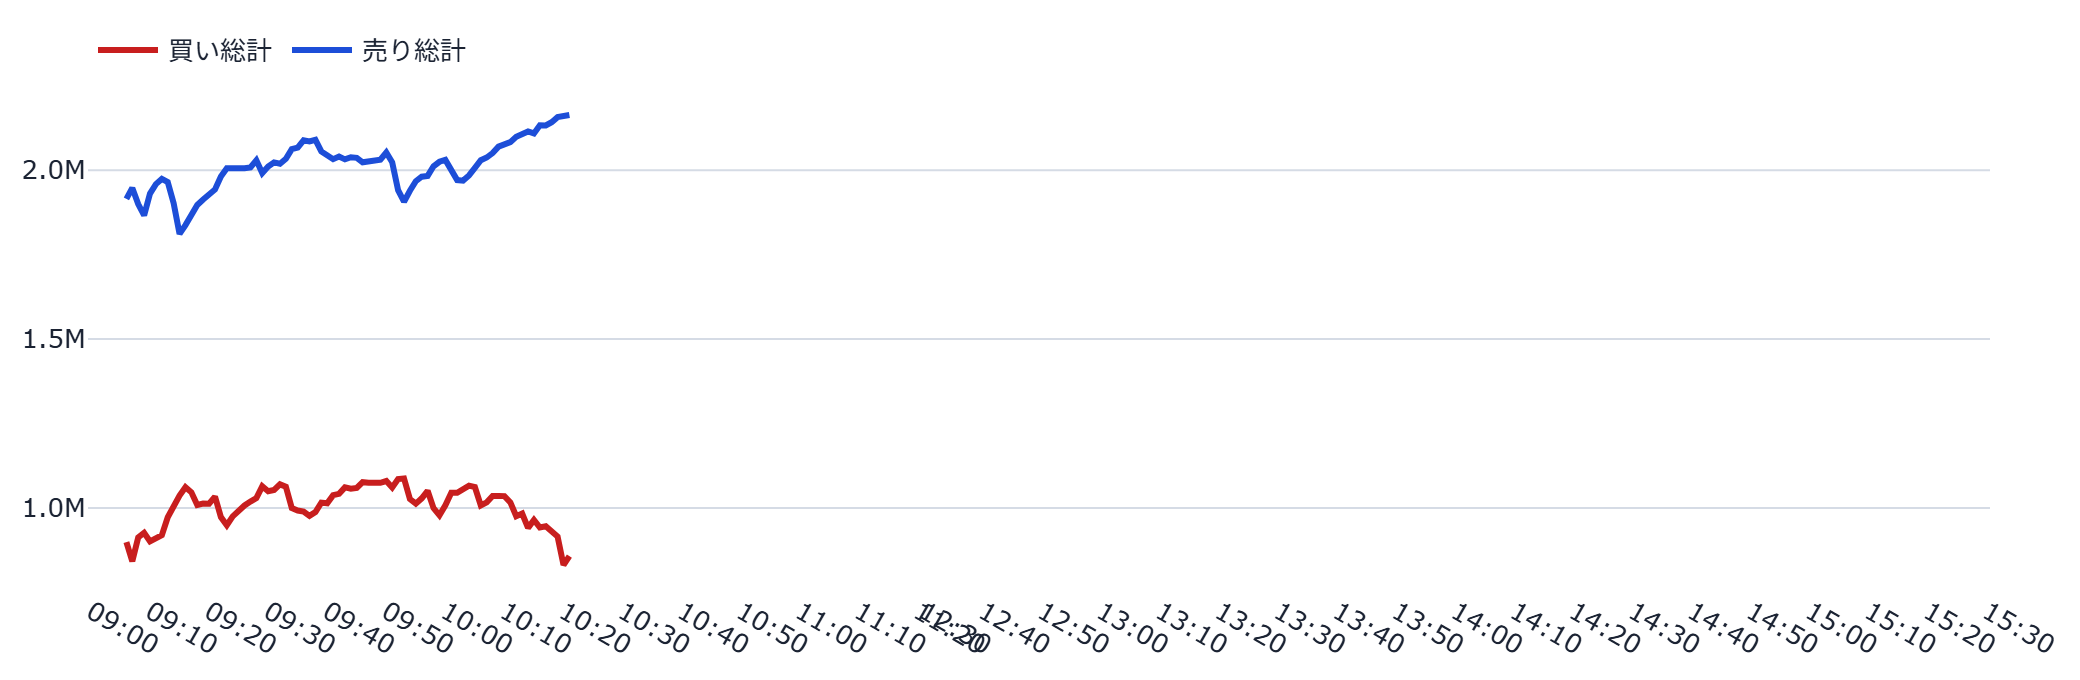
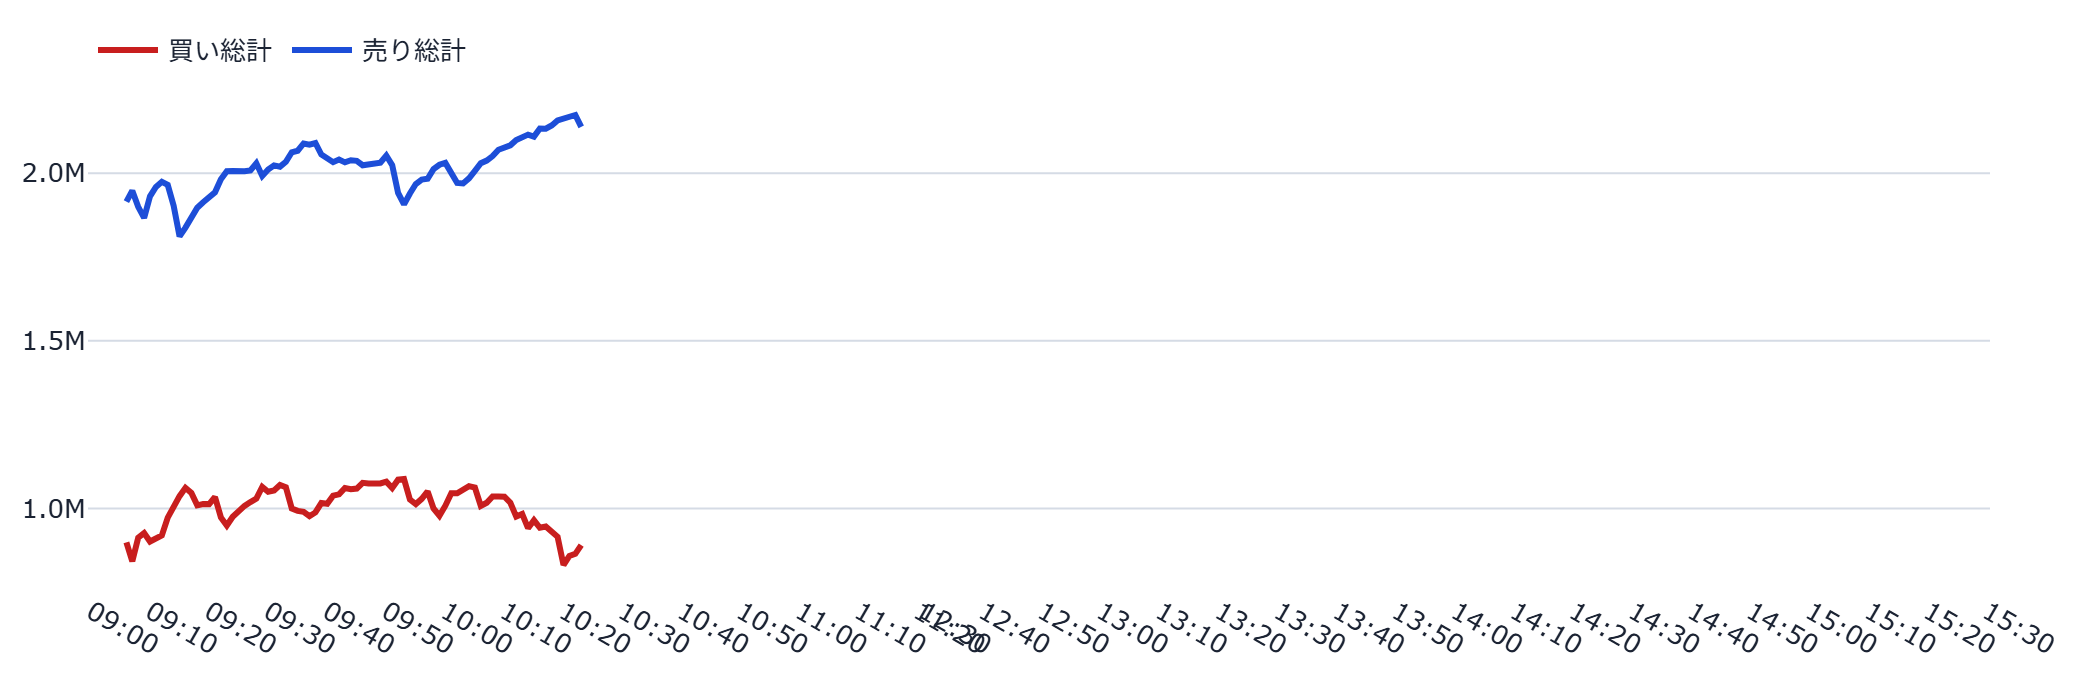
auto: refresh static dashboard (2026-09-24 10:26:27 JST)

Changed region(s): [[0.0, 0.1544, 0.9688, 0.3397], [0.0, 0.4941, 0.9688, 0.525], [0.1562, 0.7103, 0.25, 0.7412]]

diff --git a/docs/index.html b/docs/index.html
@@ -146,20 +146,20 @@
       <div class="panel header">
         <span class="symbol">285A</span>
         <span class="company">キオクシアホールディングス</span>
-        <span class="price">55,780円</span>
-        <span class="chg" style="color:#C81E1E">+2.22%</span>
+        <span class="price">55,920円</span>
+        <span class="chg" style="color:#C81E1E">+2.47%</span>
       </div>
       <p class="caption">更新時刻: 2026-09-24T09:49:20（データは1分間隔で自動生成され、このページも
       60秒毎に自動再読み込みされます）</p>
-      <p class='caption'>⚠ データの更新が約34分前から止まっている可能性があります(通常は1分毎に自動生成)。</p>
-      <p id='visit-count-badge' class='caption'>👀 累計閲覧数: 6,006</p>
+      <p class='caption'>⚠ データの更新が約37分前から止まっている可能性があります(通常は1分毎に自動生成)。</p>
+      <p id='visit-count-badge' class='caption' style='display:none'></p>
       <p id='like-button-wrap' class='caption'><button id='like-button' type='button' style='cursor:pointer;border:1px solid var(--border);border-radius:6px;padding:1px 10px;margin-right:6px;background:var(--panel);color:var(--text);font-size:1em;vertical-align:middle'>👍</button><span id='like-count-label'>このダッシュボードが役に立ったら押してください（累計 4 いいね）</span></p>
 
       <!-- ★2026-09-08追加(ユーザー指示「AI考察はトップに移動」): モニタ
            (ai_sector_monitor)のtemplates/index.htmlと同じく、AI考察はタブ非依存で
            常時最上部に表示する。 -->
       <h2>🤖 AI考察</h2>
-      <div class='metric-row'><div class='metric-card'><div class='metric-label'>株価</div><div class='metric-value'>55,780円</div><div class='metric-delta'>+1210円</div></div><div class='metric-card'><div class='metric-label'>強気比率</div><div class='metric-value'>43.2%</div><div class='metric-delta'>+0.0pt</div></div><div class='metric-card'><div class='metric-label'>弱気比率</div><div class='metric-value'>47.9%</div><div class='metric-delta'>+0.0pt</div></div></div><p class='caption'>前回集計(2026-09-24T09:11:32)との比較</p>
+      <div class='metric-row'><div class='metric-card'><div class='metric-label'>株価</div><div class='metric-value'>55,920円</div><div class='metric-delta'>+1350円</div></div><div class='metric-card'><div class='metric-label'>強気比率</div><div class='metric-value'>43.2%</div><div class='metric-delta'>+0.0pt</div></div><div class='metric-card'><div class='metric-label'>弱気比率</div><div class='metric-value'>47.9%</div><div class='metric-delta'>+0.0pt</div></div></div><p class='caption'>前回集計(2026-09-24T09:11:32)との比較</p>
       <div class='ai-box'>キオクシアホールディングス（285A）の掲示板における、前場時点での集計センチメントデータに基づく分析を報告します。<br>
 <br>
 現在の株価は前日比で4.21%上昇しており、本日の値動きは「トレンド型」として分類されています。この値動きの大きさは執行コストの約152.5倍に達しており、コストを大きく上回る規模での推移を見せています。一方で、ボラティリティ・レジーム帯は現在「calibrating（較正中）」となっており、現在の価格変動の激しさが統計的にどの程度の水準にあるかについては、まだ確定的な評価に至っていない段階にあります。<br>
@@ -268,11 +268,11 @@
         <div class="grid2">
           <div class="panel">
             <h3>支持線・抵抗線の目安（SD単位）</h3>
-            <table style='width:100%;border-collapse:collapse;font-size:.92em'><thead><tr><th style='text-align:left'>値幅の目安</th><th style='text-align:left'>上側の水準</th><th style='text-align:left'>下側の水準</th></tr></thead><tbody><tr><td>0.5SD（±2.62%）</td><td>57,242円</td><td>54,318円</td></tr><tr><td>1.0SD（±5.24%）</td><td>58,704円</td><td>52,856円</td></tr><tr><td>1.5SD（±7.86%）</td><td>60,166円</td><td>51,394円</td></tr></tbody></table><p class='caption'>直近14日間の最高値（2026-09-07・59,530円）からの乖離: -6.30%</p><p class='caption'>SDは直近14日間の日次終値リターンの標準偏差（5.24%/日）から算出した値幅の目安であり、到達を予測するものではありません。</p>
+            <table style='width:100%;border-collapse:collapse;font-size:.92em'><thead><tr><th style='text-align:left'>値幅の目安</th><th style='text-align:left'>上側の水準</th><th style='text-align:left'>下側の水準</th></tr></thead><tbody><tr><td>0.5SD（±2.62%）</td><td>57,386円</td><td>54,454円</td></tr><tr><td>1.0SD（±5.24%）</td><td>58,851円</td><td>52,989円</td></tr><tr><td>1.5SD（±7.86%）</td><td>60,317円</td><td>51,523円</td></tr></tbody></table><p class='caption'>直近14日間の最高値（2026-09-07・59,530円）からの乖離: -6.06%</p><p class='caption'>SDは直近14日間の日次終値リターンの標準偏差（5.24%/日）から算出した値幅の目安であり、到達を予測するものではありません。</p>
           </div>
           <div class="panel">
             <h3>市場コンテキスト</h3>
-            <div class='metric-row'><div class='metric-card'><div class='metric-label'>本日の値動きの型</div><div class='metric-value' style='font-size:1.05rem'>トレンド型</div><div class='metric-delta'>不確実性: 普段並み</div></div><div class='metric-card'><div class='metric-label'>値動き ÷ 執行コスト</div><div class='metric-value'>約80.4倍</div><div class='metric-delta'>費用実測2.76bp</div></div></div><p class='caption'>海外ピアの値動き・本日の値動きの型はいずれも事実の記述であり、翌営業日の値動きを予測するものではありません。値動き÷執行コストは値幅の大きさの目安であり、実際に利益を確保できることを意味しません。</p>
+            <div class='metric-row'><div class='metric-card'><div class='metric-label'>本日の値動きの型</div><div class='metric-value' style='font-size:1.05rem'>トレンド型</div><div class='metric-delta'>不確実性: 普段並み</div></div><div class='metric-card'><div class='metric-label'>値動き ÷ 執行コスト</div><div class='metric-value'>約89.5倍</div><div class='metric-delta'>費用実測2.76bp</div></div></div><p class='caption'>海外ピアの値動き・本日の値動きの型はいずれも事実の記述であり、翌営業日の値動きを予測するものではありません。値動き÷執行コストは値幅の大きさの目安であり、実際に利益を確保できることを意味しません。</p>
           </div>
         </div>
         <div class="panel">
@@ -287,7 +287,7 @@
 
       <hr style="border:none;border-top:1px solid var(--border);margin:2rem 0 1rem">
       <p class="caption">⚠ 本情報は掲示板投稿を統計的に集計したものであり、投資助言ではありません。個別の投稿内容は含まれていません。研究・エンタメ用途です。</p>
-      <footer>生成: generate_static_dashboard.py（2026-09-24T10:23:32） /
+      <footer>生成: generate_static_dashboard.py（2026-09-24T10:26:12） /
       画像バックエンド: plotly+kaleido</footer>
     </div>
     <script>(function(){var url="https://script.google.com/macros/s/AKfycbwgSSGQ2n56ohmIYKlNDA1Xe3D8hd3GJbD0U90L4DGtXdb8pqrPokNMHJWjvN1__7bE/exec";var KEY='bbs_visit_counted';var already=sessionStorage.getItem(KEY);var action=already?'read':'hit';var ctrl=(typeof AbortController!=='undefined')?new AbortController():null;var timer=ctrl?setTimeout(function(){ctrl.abort();},5000):null;fetch(url+'?action='+action,{signal:ctrl?ctrl.signal:undefined}).then(function(r){if(timer)clearTimeout(timer);return r.json();}).then(function(data){if(!already)sessionStorage.setItem(KEY,'1');if(data&&typeof data.count==='number'){var el=document.getElementById('visit-count-badge');if(el){el.textContent='\u{1F440} \u7d2f\u8a08\u95b2\u89a7\u6570: '+data.count.toLocaleString();el.style.display='';}}}).catch(function(e){if(timer)clearTimeout(timer);console.warn('visit counter fetch failed (fail-soft):',e);});})();</script><script>(function(){var url="https://script.google.com/macros/s/AKfycbwgSSGQ2n56ohmIYKlNDA1Xe3D8hd3GJbD0U90L4DGtXdb8pqrPokNMHJWjvN1__7bE/exec";var KEY='bbs_liked';var btn=document.getElementById('like-button');var label=document.getElementById('like-count-label');if(!btn||!label)return;function renderLiked(count){btn.disabled=true;btn.style.cursor='default';btn.style.opacity='0.6';btn.textContent='\u2705';label.textContent="\u3044\u3044\u306d\u3057\u307e\u3057\u305f\uff01"+(typeof count==='number'?"\uff08\u7d2f\u8a08 "+count.toLocaleString()+" \u3044\u3044\u306d\uff09":'');}if(localStorage.getItem(KEY)){renderLiked(null);}btn.addEventListener('click',function(){if(localStorage.getItem(KEY))return;btn.disabled=true;var ctrl=(typeof AbortController!=='undefined')?new AbortController():null;var timer=ctrl?setTimeout(function(){ctrl.abort();},5000):null;fetch(url+'?action=like_hit',{signal:ctrl?ctrl.signal:undefined}).then(function(r){if(timer)clearTimeout(timer);return r.json();}).then(function(data){localStorage.setItem(KEY,'1');renderLiked(data&&typeof data.count==='number'?data.count:null);}).catch(function(e){if(timer)clearTimeout(timer);btn.disabled=false;console.warn('like button fetch failed (fail-soft):',e);});});})();</script><script>(function(){var DEFAULT_TAB='overview';function activate(tabName){var buttons=document.querySelectorAll('.tab-bar .tab-btn');var panels=document.querySelectorAll('[data-tab-panel]');if(!buttons.length||!panels.length)return;var matched=false;panels.forEach(function(p){var on=p.getAttribute('data-tab-panel')===tabName;if(on)matched=true;p.classList.toggle('tab-hidden',!on);});if(!matched){panels.forEach(function(p){p.classList.toggle('tab-hidden',p.getAttribute('data-tab-panel')!==DEFAULT_TAB);});tabName=DEFAULT_TAB;}buttons.forEach(function(b){var on=b.getAttribute('data-tab')===tabName;b.classList.toggle('active',on);b.setAttribute('aria-selected',on?'true':'false');});}document.addEventListener('DOMContentLoaded',function(){var bar=document.getElementById('tabBar');if(!bar)return;bar.addEventListener('click',function(e){var btn=e.target.closest('.tab-btn');if(!btn)return;activate(btn.getAttribute('data-tab'));});activate(DEFAULT_TAB);});})();</script></body></html>
